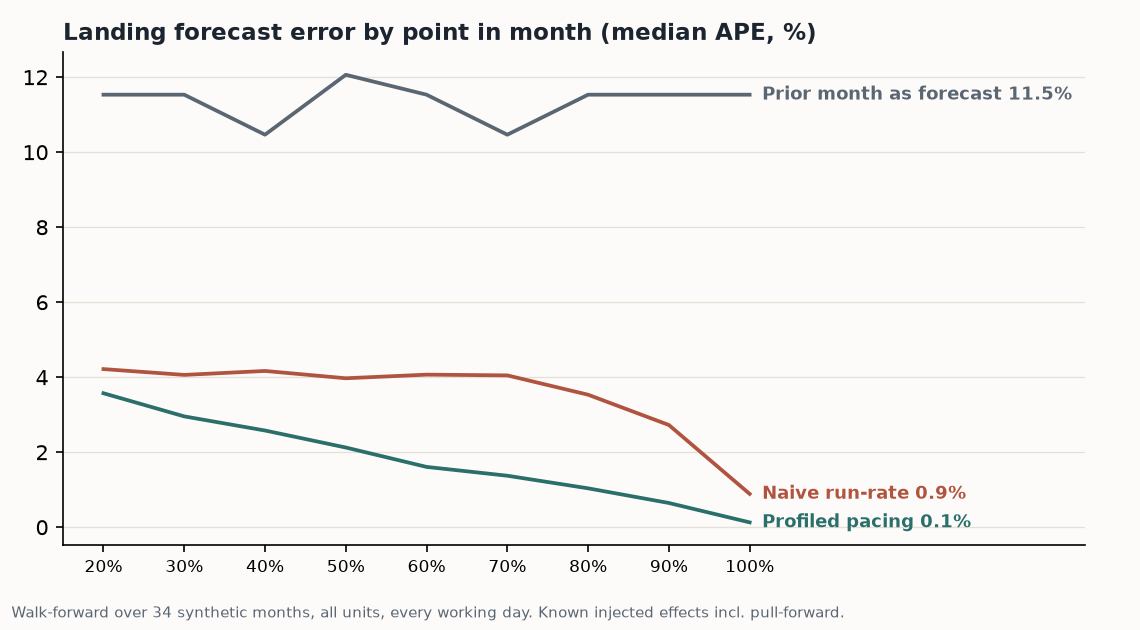
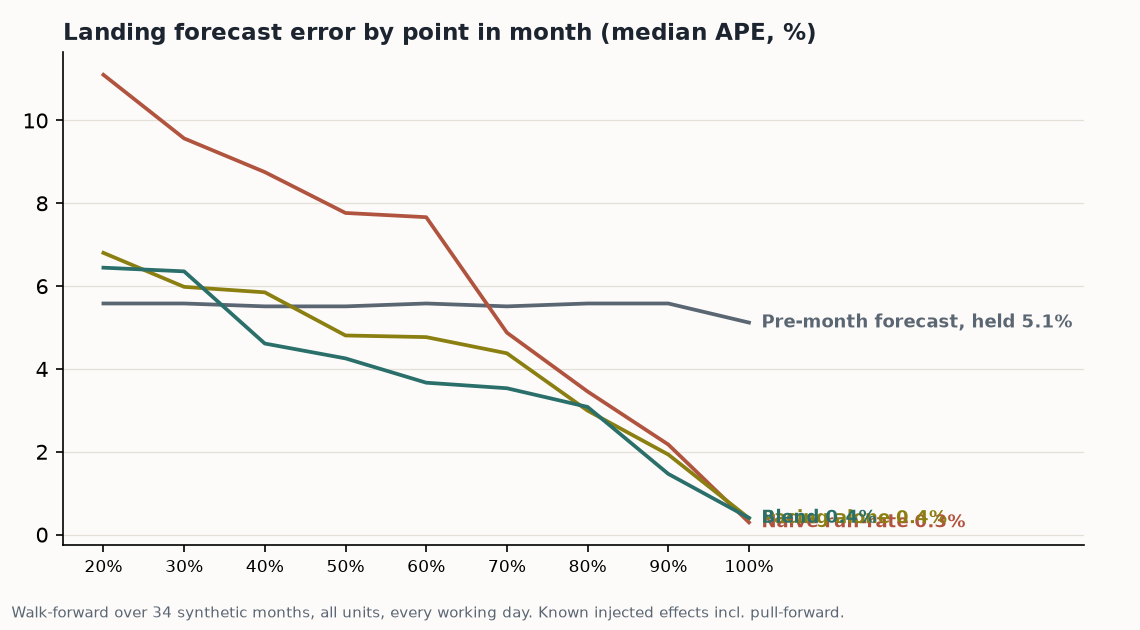
Two layers: pre-month forecast from five years of history, blended with daily pacing
Blend weight is the share of month observed, untuned and stated.
Backtest shows the crossover: held forecast best very early, blend
leads from 40% elapsed, run-rate never leads. Strong months'
half-month under-read improves from 10.5% to 7.2%. Lumpy orders and
pull-forward months injected and flagged, not hidden.

diff --git a/month_landing.py b/month_landing.py
@@ -28,8 +28,10 @@ import matplotlib.pyplot as plt
 BG, INK, MUTED, LINE = "#fcfbf9", "#1c2430", "#5b6673", "#e4e0d8"
 ACCENT, SECOND, THIRD = "#2a6f6a", "#b0543f", "#8a7f10"
 
-# England bank holidays, 2023-2026.
+# England bank holidays, 2021-2026.
 HOLIDAYS = {d for d in map(date.fromisoformat, """
+2021-01-01 2021-04-02 2021-04-05 2021-05-03 2021-05-31 2021-08-30 2021-12-27 2021-12-28
+2022-01-03 2022-04-15 2022-04-18 2022-05-02 2022-06-02 2022-06-03 2022-08-29 2022-09-19 2022-12-26 2022-12-27
 2023-01-02 2023-04-07 2023-04-10 2023-05-01 2023-05-08 2023-05-29 2023-08-28 2023-12-25 2023-12-26
 2024-01-01 2024-03-29 2024-04-01 2024-05-06 2024-05-27 2024-08-26 2024-12-25 2024-12-26
 2025-01-01 2025-04-18 2025-04-21 2025-05-05 2025-05-26 2025-08-25 2025-12-25 2025-12-26
@@ -37,16 +39,17 @@ HOLIDAYS = {d for d in map(date.fromisoformat, """
 """.split())}
 
 UNITS = {
-    # name: (base daily £k, annual growth, month-end loading, pull-forward share)
-    "Core parts":  (420.0, 0.05, 0.9, 0.12),
-    "Accessories": (150.0, 0.08, 0.5, 0.04),
-    "Service":     (95.0,  0.03, 0.2, 0.00),
-    "Internal":    (60.0,  0.00, 1.3, 0.00),
+    # name: (base daily GBPk, annual growth, month-end loading,
+    #        pull-forward share, lumpiness: P(large order), its size range)
+    "Core parts":  (420.0, 0.05, 0.9, 0.12, 0.05, (1.8, 4.0)),
+    "Accessories": (150.0, 0.08, 0.5, 0.04, 0.03, (1.5, 2.5)),
+    "Service":     (95.0,  0.03, 0.2, 0.00, 0.01, (1.3, 1.8)),
+    "Internal":    (60.0,  0.00, 1.3, 0.00, 0.08, (2.0, 5.0)),
 }
 MONTH_F = [0.97, 0.99, 1.08, 0.98, 1.00, 1.02, 0.96, 0.88, 1.05, 1.03, 1.02, 0.86]
 WEEKDAY_F = [0.95, 1.00, 1.02, 1.03, 1.00]            # Mon..Fri
 PRICE_RISE_MONTH = 4         # increases land 1 April: March loads, April dips
-START, END = date(2023, 1, 1), date(2026, 10, 31)
+START, END = date(2021, 1, 1), date(2026, 10, 31)   # five years of dailies
 TRAIL_MONTHS = 6             # months the pacing curve learns from
 GRID = np.linspace(0.05, 1.0, 20)                     # share curve sample points
 
@@ -71,7 +74,7 @@ def generate():
     """Daily actuals per unit with known effects. Returns {unit: {date: £k}}."""
     rng = random.Random(7)
     out = {u: {} for u in UNITS}
-    for u, (base, growth, loading, pull) in UNITS.items():
+    for u, (base, growth, loading, pull, p_lump, lump) in UNITS.items():
         for y, m in month_iter(START, END):
             wds = working_days(y, m)
             n = len(wds)
@@ -87,7 +90,10 @@ def generate():
                         level *= 1 + pull * 4          # March loads up
                     if m == PRICE_RISE_MONTH and pos < 0.3:
                         level *= 1 - pull * 2          # April starts hollow
-                out[u][d] = level * rng.lognormvariate(0, 0.06)
+                level *= rng.lognormvariate(0, 0.10)
+                if rng.random() < p_lump:              # a large order lands
+                    level *= rng.uniform(*lump)
+                out[u][d] = level
     return out
 
 
@@ -107,6 +113,36 @@ def share_curve(actuals, unit, y, m):
     return np.mean(curves, axis=0) if curves else None
 
 
+_MT, _PM = {}, {}
+
+def monthly_totals(actuals, unit):
+    if unit not in _MT:
+        _MT[unit] = {(y, m): sum(actuals[unit][d] for d in working_days(y, m))
+                     for y, m in month_iter(START, END)}
+    return _MT[unit]
+
+
+def pre_month(actuals, unit, y, m):
+    """The forecast made before the month starts: log-linear trend plus
+    month-of-year factors, fitted on up to five years of completed months."""
+    key = (unit, y, m)
+    if key in _PM:
+        return _PM[key]
+    tot = monthly_totals(actuals, unit)
+    hist = [(yy, mm) for yy, mm in month_iter(START, END)
+            if (yy, mm) < (y, m)][-60:]
+    t = np.arange(len(hist))
+    logy = np.log([tot[k] for k in hist])
+    X = np.column_stack([np.ones(len(hist)), t] +
+                        [(np.array([k[1] for k in hist]) == mm).astype(float)
+                         for mm in range(2, 13)])
+    beta, *_ = np.linalg.lstsq(X, logy, rcond=None)
+    x = np.concatenate([[1.0, len(hist)],
+                        [(m == mm) for mm in range(2, 13)]]).astype(float)
+    _PM[key] = float(np.exp(x @ beta))
+    return _PM[key]
+
+
 def landing(actuals, unit, y, m, elapsed):
     """Forecast the month's total after `elapsed` working days."""
     wds = working_days(y, m)
@@ -114,7 +150,14 @@ def landing(actuals, unit, y, m, elapsed):
     frac = elapsed / len(wds)
     curve = share_curve(actuals, unit, y, m)
     expected = float(np.interp(frac, GRID, curve))
-    return mtd / max(expected, 1e-9), mtd / frac       # profiled, naive run-rate
+    pacing = mtd / max(expected, 1e-9)
+    prior = pre_month(actuals, unit, y, m)
+    # credibility blend: weight the pacing evidence by the share of the
+    # month it has actually seen. Early days lean on the pre-month
+    # forecast; a month pacing strong lifts the full-month number instead
+    # of being under-called.
+    blend = expected * pacing + (1 - expected) * prior
+    return blend, pacing, mtd / frac, prior
 
 
 def backtest(actuals):
@@ -124,16 +167,17 @@ def backtest(actuals):
         wds = working_days(y, m)
         total = sum(actuals[u][d] for u in UNITS for d in wds)
         yy, mm = (y - 1, 12) if m == 1 else (y, m - 1)
-        prior = sum(actuals[u][d] for u in UNITS for d in working_days(yy, mm))
+        held = sum(pre_month(actuals, u, y, m) for u in UNITS)
         for e in range(2, len(wds) + 1):
-            prof = run = 0.0
+            bl = prof = run = 0.0
             for u in UNITS:
-                p, r = landing(actuals, u, y, m, e)
+                b, p, r, _ = landing(actuals, u, y, m, e)
+                bl += b
                 prof += p
                 run += r
             rows.append({"year": y, "month": m, "elapsed": e, "of": len(wds),
-                         "frac": e / len(wds), "actual": total,
-                         "profiled": prof, "runrate": run, "prior": prior})
+                         "frac": e / len(wds), "actual": total, "blend": bl,
+                         "profiled": prof, "runrate": run, "prior": held})
     return rows
 
 
@@ -146,8 +190,9 @@ def report(rows):
         if not sub:
             continue
         med = lambda k: float(np.median([ape(r[k], r["actual"]) for r in sub]))
-        funnel.append({"elapsed": f"{int(hi*100)}%", "profiled": med("profiled"),
-                       "runrate": med("runrate"), "prior": med("prior")})
+        funnel.append({"elapsed": f"{int(hi*100)}%", "blend": med("blend"),
+                       "profiled": med("profiled"), "runrate": med("runrate"),
+                       "prior": med("prior")})
 
     with open("outputs/backtest_funnel.csv", "w", newline="") as fh:
         w = csv.DictWriter(fh, fieldnames=funnel[0].keys())
@@ -160,9 +205,10 @@ def report(rows):
     for side in ("top", "right"):
         ax.spines[side].set_visible(False)
     xs = range(len(funnel))
-    for key, colour, label in (("prior", MUTED, "Prior month as forecast"),
+    for key, colour, label in (("prior", MUTED, "Pre-month forecast, held"),
                                ("runrate", SECOND, "Naive run-rate"),
-                               ("profiled", ACCENT, "Profiled pacing")):
+                               ("profiled", THIRD, "Pacing alone"),
+                               ("blend", ACCENT, "Blend")):
         ys = [f[key] for f in funnel]
         ax.plot(xs, ys, color=colour, linewidth=1.8)
         ax.annotate(f"{label} {ys[-1]:.1f}%", xy=(len(funnel) - 1, ys[-1]),
@@ -192,10 +238,26 @@ def report(rows):
     flagged.sort(key=lambda x: -x[2])
 
     print("MONTH LANDING FORECAST - walk-forward backtest")
-    print(f"{'elapsed':>8s} {'profiled':>9s} {'run-rate':>9s} {'prior mo':>9s}")
+    print(f"{'elapsed':>8s} {'blend':>8s} {'pacing':>8s} {'run-rate':>9s} {'held fc':>8s}")
     for f in funnel:
-        print(f"{f['elapsed']:>8s} {f['profiled']:>8.1f}% {f['runrate']:>8.1f}% "
-              f"{f['prior']:>8.1f}%")
+        print(f"{f['elapsed']:>8s} {f['blend']:>7.1f}% {f['profiled']:>7.1f}% "
+              f"{f['runrate']:>8.1f}% {f['prior']:>7.1f}%")
+
+    # his sentence, demonstrated: strong months must not be under-called
+    strong = {(r["year"], r["month"]) for r in rows
+              if r["actual"] > r["prior"] * 1.05}
+    at = lambda k, ym: next(r[k] / r["actual"] - 1 for r in rows
+                            if (r["year"], r["month"]) == ym
+                            and abs(r["frac"] - 0.5) ==
+                            min(abs(q["frac"] - 0.5) for q in rows
+                                if (q["year"], q["month"]) == ym))
+    if strong:
+        h = float(np.median([at("prior", ym) for ym in strong])) * 100
+        b = float(np.median([at("blend", ym) for ym in strong])) * 100
+        print(f"\nStrong months (actual >5% above the pre-month forecast): "
+              f"{len(strong)} of 34.")
+        print(f"At half-month, the held forecast under-reads them by "
+              f"{h:+.1f}%; the blend by {b:+.1f}%.")
     print("\nMonths mis-read at 40% elapsed (profiled APE > 8%):")
     for y, m, e in flagged:
         tag = " <- price-rise pull-forward" if m in (PRICE_RISE_MONTH - 1,

diff --git a/README.md b/README.md
@@ -1,56 +1,72 @@
 # Month landing forecast
 
-Where does this month finish, given today? A daily-updating landing forecast
-for revenue, built on working days and a pacing curve that re-learns every
-month. Synthetic data with known injected effects, so the backtest can show
-exactly what the engine catches and what it structurally cannot.
+Where does this month finish, given today? Two layers: a pre-month forecast
+from five years of history (trend plus month-of-year seasonality), then a
+daily pacing adjustment that blends in as the month reveals itself - so a
+month running strong lifts the full-month number instead of being
+under-called. Walk-forward backtested on synthetic data with known injected
+effects.
 
 ![Backtest funnel](outputs/backtest_funnel.png)
 
 ## Why it exists
 
 Every commercial team has the 4pm question: are we landing this month or
-not? The usual answers are a straight run-rate (month-to-date divided by
-days elapsed, times days in month), which ignores that months load toward
-their end, or last month's number, which ignores everything. This engine
-answers it properly and says how wrong it tends to be at each point in the
-month.
+not? The common answers fail in opposite directions. A forecast set before
+the month and held ignores what the month is actually doing, so strong
+months get under-called. A straight run-rate chases every lumpy order and
+ignores that months load toward their end. The honest answer uses both,
+weighted by how much of the month has been seen.
 
 ## Method
 
 1. **Working days only.** Weekends and England bank holidays carry no
-   revenue and no forecast weight. A month is its working days.
-2. **The pacing curve.** For the trailing six completed months, compute the
-   cumulative share of the month landed by each point in it, and average.
-   Months load toward their end; the curve knows by how much, per unit.
-3. **The landing forecast.** Month-to-date divided by the share the curve
-   expects by today. It updates every working day, and because the curve is
-   rebuilt each month from the trailing window, the forecast learns: a
-   shift in seasonality or daily pattern feeds through within months.
-4. **Benchmarks, always.** Naive run-rate and prior-month-as-forecast run
-   alongside in the backtest. A method that cannot beat the naive answers
-   is a decoration.
+   revenue and no weight. A month is its working days.
+2. **The pre-month forecast.** Log-linear trend plus month-of-year factors,
+   fitted per unit on up to five years of completed months. This is the
+   number you would publish before day one.
+3. **The pacing curve.** From the trailing six completed months, the
+   cumulative share of a month normally landed by each point in it. Months
+   load toward their end; the curve knows by how much, per unit.
+4. **The blend.** Landing = share x (MTD / expected share) + (1 - share) x
+   pre-month forecast. The weight is simply the share of the month observed:
+   day two leans on the forecast, day eighteen leans on the evidence.
+   Nothing is tuned, and the weight is stated so anyone can argue with it.
+5. **Benchmarks, always.** Pacing alone, naive run-rate and the held
+   forecast run alongside. A method that cannot beat the naive answers is a
+   decoration.
 
 ## Backtest
 
 Walk-forward over 34 synthetic months (2024-01 to 2026-10), every working
 day, all units summed. Median absolute percentage error by point in month:
 
-| Elapsed | Profiled pacing | Naive run-rate | Prior month |
-|---|---|---|---|
-| 20% | 3.6% | 4.2% | 11.5% |
-| 40% | 2.6% | 4.2% | 10.5% |
-| 60% | 1.6% | 4.1% | 11.5% |
-| 80% | 1.0% | 3.5% | 11.5% |
+| Elapsed | Blend | Pacing alone | Run-rate | Held forecast |
+|---|---|---|---|---|
+| 20% | 6.4% | 6.8% | 11.1% | 5.6% |
+| 40% | 4.6% | 5.9% | 8.8% | 5.5% |
+| 60% | 3.7% | 4.8% | 7.7% | 5.6% |
+| 80% | 3.1% | 3.0% | 3.5% | 5.6% |
+
+The shape is the point. Early month, the pre-month forecast is still the
+best single answer because two days of lumpy orders prove little. From 40%
+elapsed the blend leads. The run-rate never leads at any point in the month.
+
+**Strong months are the test that matters.** In the 10 of 34 months that
+finished more than 5% above the pre-month forecast, the held forecast
+under-read them by a median 10.5% at half-month; the blend by 7.2%. That is
+the under-forecasting of good months, measurably reduced - not eliminated,
+because at half-month the evidence is still partial, and the table says so.
 
 ## What it cannot do, shown rather than hidden
 
-The generator deliberately injects orders pulled forward ahead of an April
-price increase: March loads late, April starts hollow. A pacing curve
-cannot know an order was pulled forward; it can only notice that the pace
-has broken from profile. The backtest prints the months it mis-read for
-exactly this reason, and the honest operational answer is a flag a human
-reads, not an automatic correction chasing its own tail.
+The generator injects orders pulled forward ahead of an April price
+increase: March loads late, April starts hollow. A pacing curve cannot know
+an order was pulled forward; it can only notice the pace has broken from
+profile. The backtest prints every month it mis-read at 40% elapsed - the
+pull-forward Marches are on the list alongside ordinarily lumpy months -
+and the honest operational answer is a flag a human reads, not an automatic
+correction chasing its own tail.
 
 This is also not a demand model. It forecasts where the month lands given
 how it is pacing; it says nothing about why.
@@ -58,11 +74,11 @@ how it is pacing; it says nothing about why.
 ## Data
 
 Synthetic, with known ground truth: trend, monthly and weekday seasonality,
-month-end loading, holiday gaps and pull-forward events are all injected on
-purpose (parameters at the top of `month_landing.py`), so recovery is
-provable. Units are generic and configurable. The method class is standard
-in parts and distribution businesses; this is a from-scratch rebuild on
-public code and synthetic data.
+month-end loading, holiday gaps, lumpy large orders and pull-forward events
+are injected on purpose (parameters at the top of `month_landing.py`), so
+recovery is provable. Units are generic and configurable. The method class
+is standard in parts and distribution businesses; this is a from-scratch
+rebuild on public code and synthetic data.
 
 ## Run it
 
